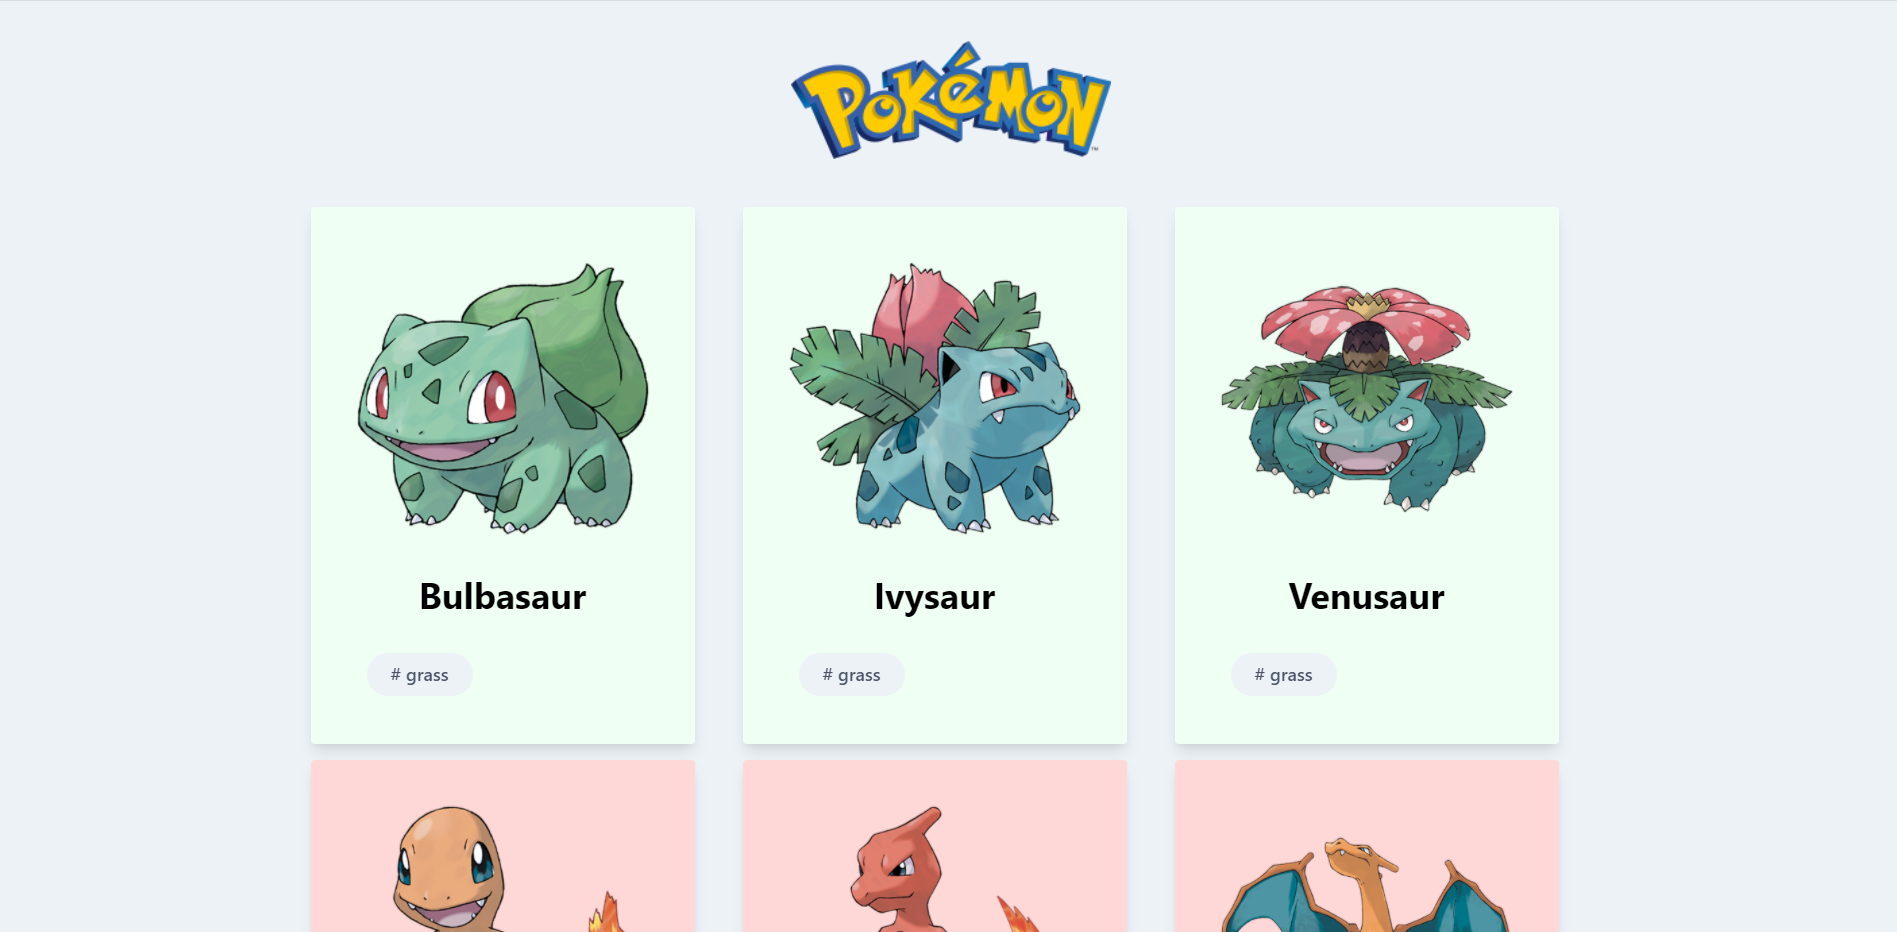
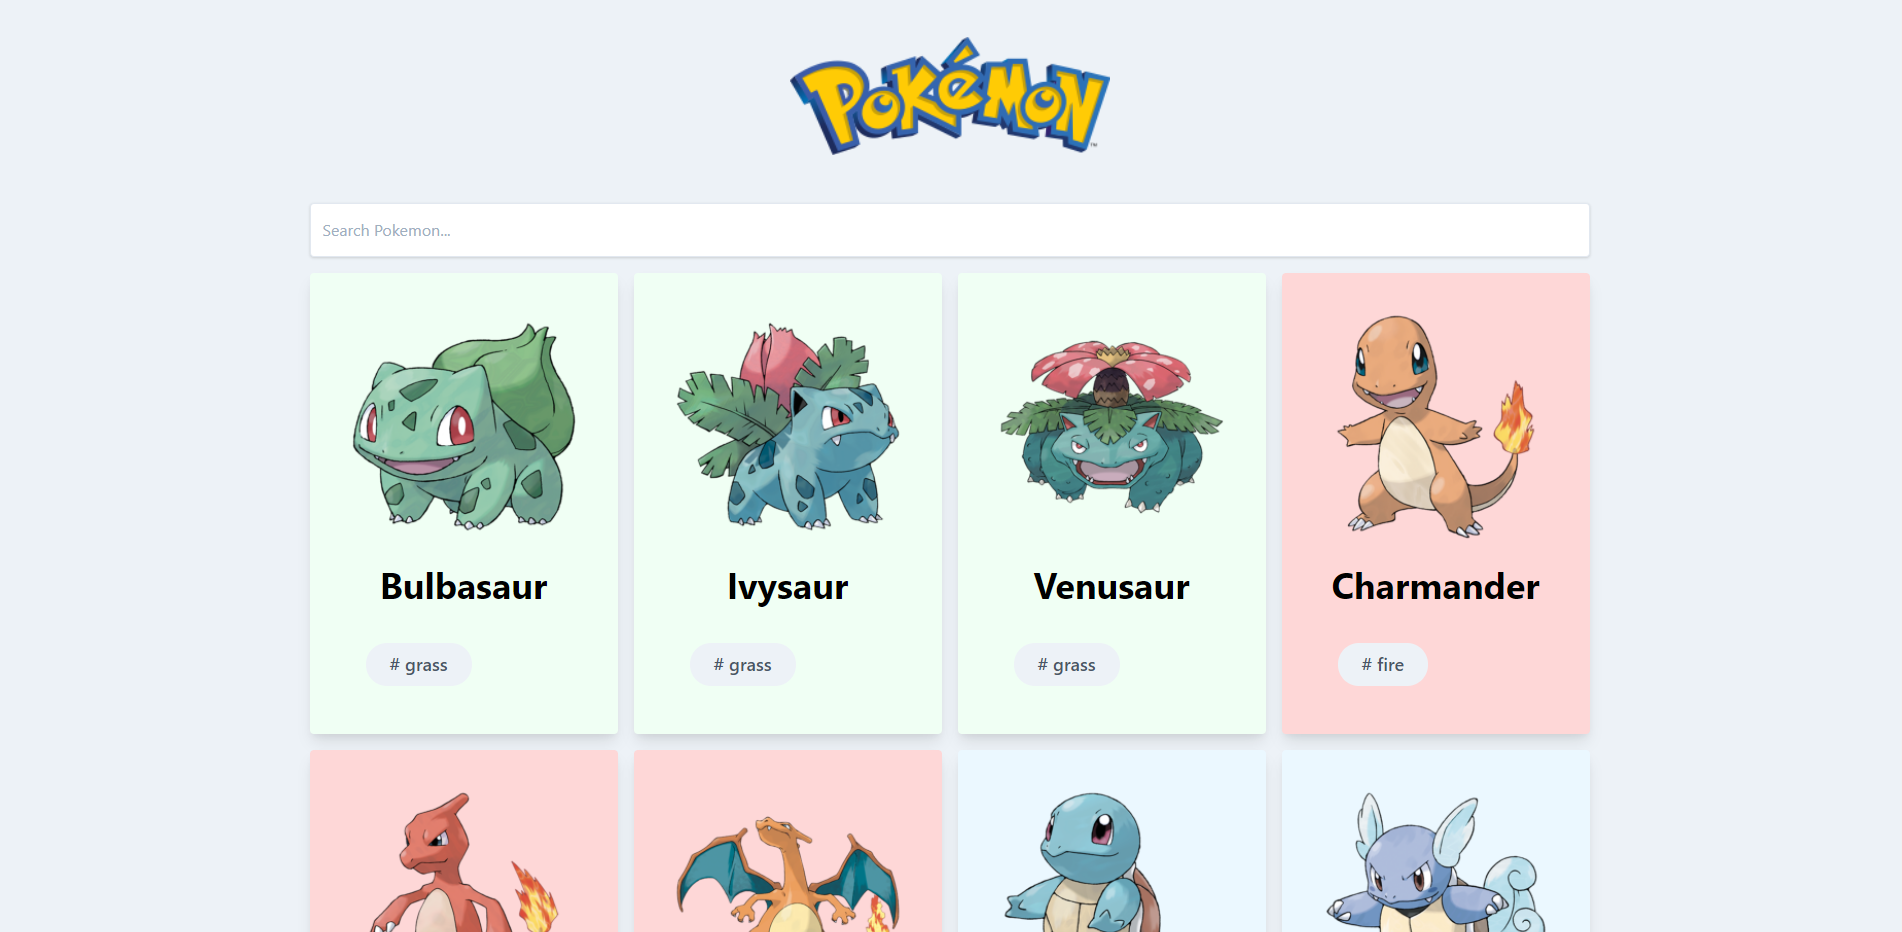
Search functionality

diff --git a/pages/index.js b/pages/index.js
@@ -1,6 +1,8 @@
+import React, {useState, useEffect} from 'react';
 import Layout from "../components/Layout";
 
 export default function Home({ pokemons }) {
+
   const cardColor = (type) => {
     switch (type) {
       case "fire":
@@ -32,10 +34,18 @@ export default function Home({ pokemons }) {
       case "normal":
         return "bg-white";
       default:
-        console.log("Sorry no pokemon");
         break;
     }
   };
+
+  const [search, setSearch] = useState("");
+  const [searchedPokemon, setSearchedPokemon] = useState([]);
+  
+
+  useEffect(() => {
+      const result = pokemons.filter(pokemon => pokemon.name.match(search));
+      setSearchedPokemon(result);
+  }, [search])
 
   return (
     <Layout title="Pokedex - NextJS">
@@ -44,28 +54,64 @@ export default function Home({ pokemons }) {
         alt="logo"
         className=" sm:w-64 sm:object-cover  xl:w-1/4 object-contain m-auto mb-12"
       />
-      <div className="grid sm:grid-cols-1 sm:gap-4 md:grid-cols-2 lg:ml-20 xl:grid-cols-3 xl:ml-0">
-        {pokemons.map((pokemon, index) => (
-          <div
-            key={index}
-            className={`max-w-sm rounded overflow-hidden shadow-lg ${cardColor(
-              pokemon.pokemonType
-            )} p-8`}
-          >
-            <img className="w-full" src={pokemon.pokeImg} alt={pokemon.name} />
-            <div className="px-4 py-2">
-              <div className="font-bold text-4xl mb-2 capitalize text-center">
-                {pokemon.name}
+
+      <form>
+          <div className="mb-4">
+            <input value={search} onChange={e => setSearch(e.target.value)} className="shadow appearance-none border rounded w-full py-4 px-3 text-gray-700 leading-tight focus:outline-none focus:shadow-outline" id="pokemon" type="text" placeholder="Search Pokemon..." />
+          </div>
+      </form>
+
+      {
+        searchedPokemon.length > 0 ? (
+          <div className="grid sm:grid-cols-2 sm:gap-4 md:grid-cols-3 lg:ml-20 xl:grid-cols-4 xl:ml-0">
+          {searchedPokemon.map((pokemon, index) => (
+            <div
+              key={index}
+              className={`max-w-sm rounded overflow-hidden shadow-lg ${cardColor(
+                pokemon.pokemonType
+              )} p-8`}
+            >
+              <img className="w-full" src={pokemon.pokeImg} alt={pokemon.name} />
+              <div className="px-4 py-2">
+                <div className="font-bold text-4xl mb-2 capitalize text-center">
+                  {pokemon.name}
+                </div>
+              </div>
+              <div className="px-6 pt-4 pb-2">
+                <span className="inline-block bg-gray-200 rounded-full px-6 py-2  text-lg font-semibold text-gray-700 mr-2 mb-2">
+                  {`# ${pokemon.pokemonType}`}
+                </span>
               </div>
             </div>
-            <div className="px-6 pt-4 pb-2">
-              <span className="inline-block bg-gray-200 rounded-full px-6 py-2  text-lg font-semibold text-gray-700 mr-2 mb-2">
-                {`# ${pokemon.pokemonType}`}
-              </span>
+          ))}
+        </div>
+        ) : (
+          <div className="grid sm:grid-cols-2 sm:gap-4 md:grid-cols-3 lg:ml-20 xl:grid-cols-4 xl:ml-0">
+          {pokemons.map((pokemon, index) => (
+            <div
+              key={index}
+              className={`max-w-sm rounded overflow-hidden shadow-lg ${cardColor(
+                pokemon.pokemonType
+              )} p-8`}
+            >
+              <img className="w-full" src={pokemon.pokeImg} alt={pokemon.name} />
+              <div className="px-4 py-2">
+                <div className="font-bold text-4xl mb-2 capitalize text-center">
+                  {pokemon.name}
+                </div>
+              </div>
+              <div className="px-6 pt-4 pb-2">
+                <span className="inline-block bg-gray-200 rounded-full px-6 py-2  text-lg font-semibold text-gray-700 mr-2 mb-2">
+                  {`# ${pokemon.pokemonType}`}
+                </span>
+              </div>
             </div>
-          </div>
-        ))}
-      </div>
+          ))}
+        </div>
+        )
+      }
+
+     
     </Layout>
   );
 }
@@ -74,6 +120,7 @@ export const getStaticProps = async () => {
   const pokeTypes = [];
 
   try {
+
     for (let i = 1; i <= 100; i++) {
       const res = await fetch(`https://pokeapi.co/api/v2/pokemon/${i}`);
       const { types } = await res.json();
@@ -92,6 +139,7 @@ export const getStaticProps = async () => {
         ...result,
         pokeImg,
         pokemonType,
+
       };
     });
 

diff --git a/README.md b/README.md
@@ -1,6 +1,7 @@
 # Pokedex
 
 Pokedex build with NextJs and Tailwind. It shows only first 100 pokemons.
+It also allows you to search for a specific pokemon.
 
 ### Techologies:
 
